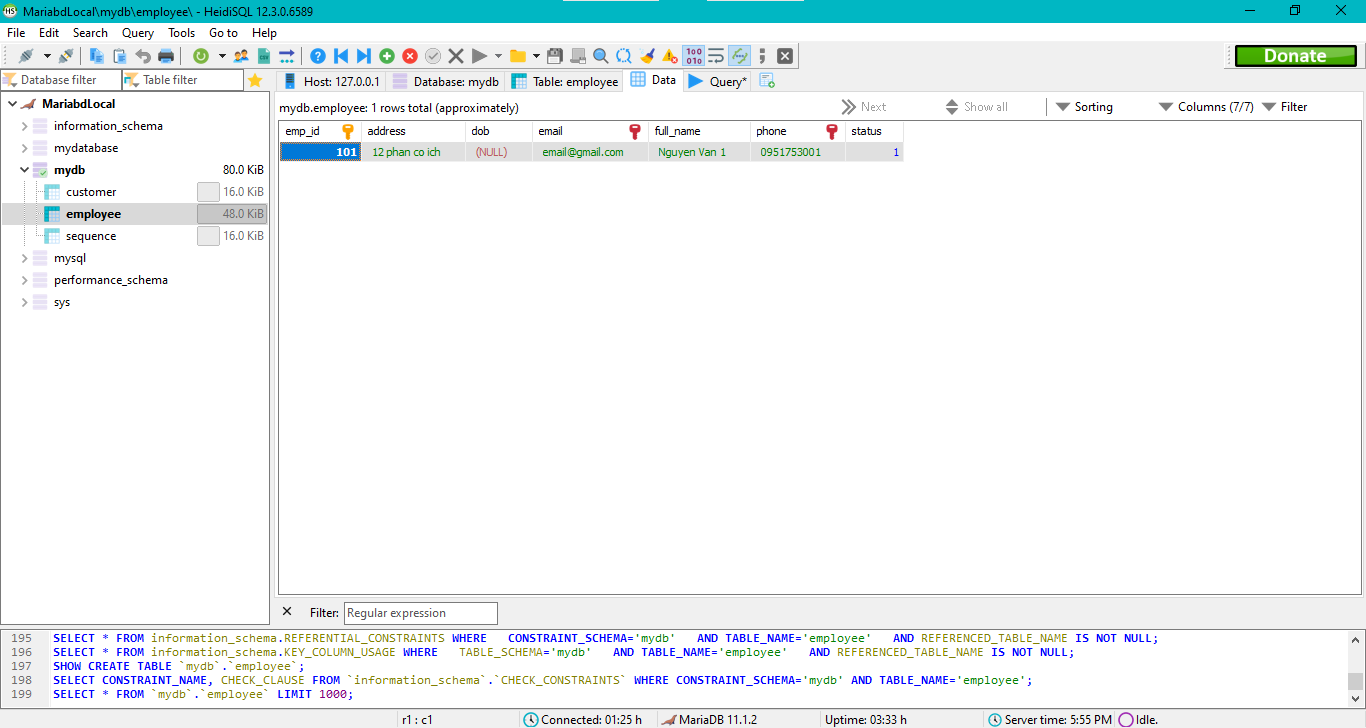
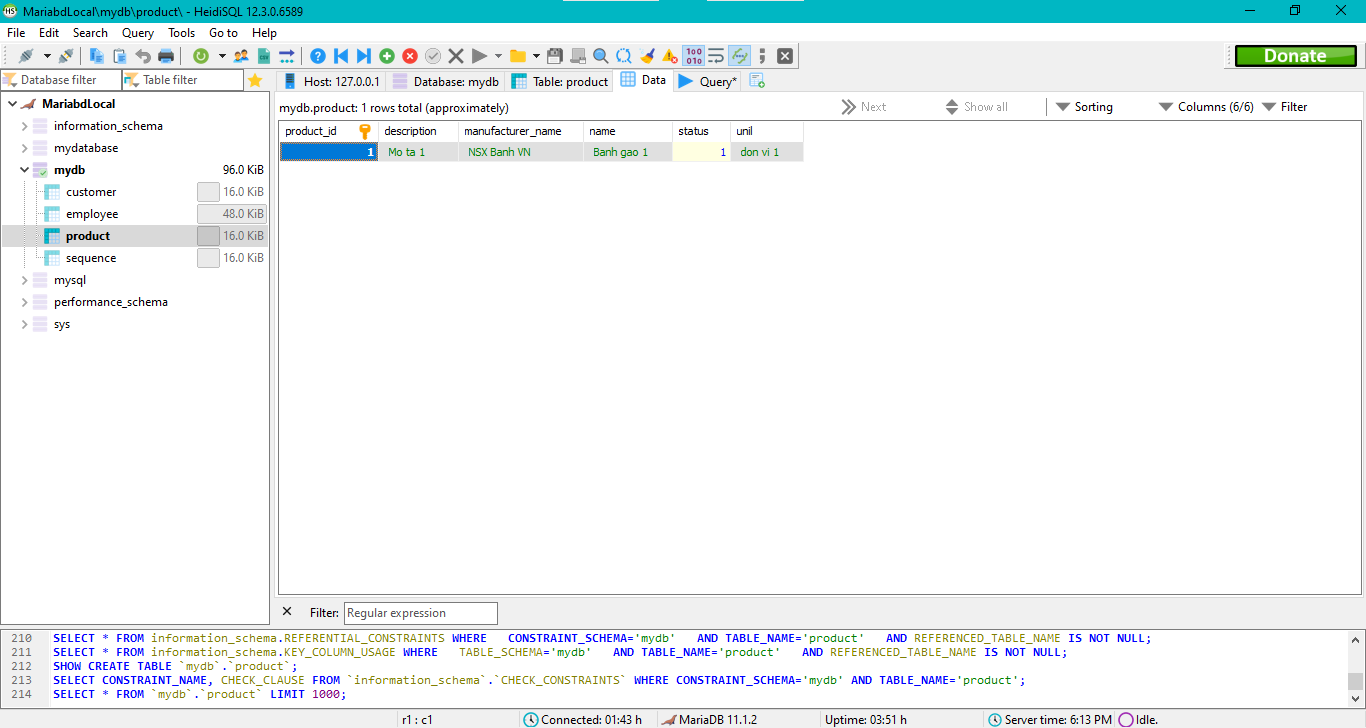
finish entity - product - data local

diff --git a/week2_RestAPI/lab1-week2-rest-jpa-mariadb/src/main/java/vn/edu/iuh/fit/models/Product.java b/week2_RestAPI/lab1-week2-rest-jpa-mariadb/src/main/java/vn/edu/iuh/fit/models/Product.java
@@ -1,7 +1,106 @@
 package vn.edu.iuh.fit.models;
 
+import jakarta.persistence.*;
+import vn.edu.iuh.fit.enums.ProductStatus;
+
 /**
- * product (product_id, name, description, unit, manufacturer_name, status)
+ * product (product_id, name
+ * , description : mieu ta
+ * , unit : don vi
+ * , manufacturer_name :nha san xuat
+ * , status)
  */
+@Entity
+@Table(name = "product")
 public class Product {
+    @Id
+    @GeneratedValue
+    @Column(name = "product_id")
+    private long id;
+    @Column(name = "name", nullable = false, length = 100)
+    private String name;
+    @Column(name = "description")
+    private String description;
+    @Column(name = "unil")
+    private String unit;
+    @Column(name = "manufacturer_name")
+    private String manufacturerName;
+    @Column(name = "status")
+    private ProductStatus status;
+//
+
+    public Product(long id, String name
+            , String description, String unit
+            , String manufacturerName
+            , ProductStatus status) {
+        this.id = id;
+        this.name = name;
+        this.description = description;
+        this.unit = unit;
+        this.manufacturerName = manufacturerName;
+        this.status = status;
+    }
+
+    @Override
+    public String toString() {
+        return "Product{" +
+                "id=" + id +
+                ", name='" + name + '\'' +
+                ", description='" + description + '\'' +
+                ", unit='" + unit + '\'' +
+                ", manufacturerName='" + manufacturerName + '\'' +
+                ", status=" + status +
+                '}';
+    }
+
+    public long getId() {
+        return id;
+    }
+
+    public void setId(long id) {
+        this.id = id;
+    }
+
+    public String getName() {
+        return name;
+    }
+
+    public void setName(String name) {
+        this.name = name;
+    }
+
+    public String getDescription() {
+        return description;
+    }
+
+    public void setDescription(String description) {
+        this.description = description;
+    }
+
+    public String getUnit() {
+        return unit;
+    }
+
+    public void setUnit(String unit) {
+        this.unit = unit;
+    }
+
+    public String getManufacturerName() {
+        return manufacturerName;
+    }
+
+    public void setManufacturerName(String manufacturerName) {
+        this.manufacturerName = manufacturerName;
+    }
+
+    public ProductStatus getStatus() {
+        return status;
+    }
+
+    public void setStatus(ProductStatus status) {
+        this.status = status;
+    }
+
+    public Product() {
+    }
 }

diff --git a/week2_RestAPI/lab1-week2-rest-jpa-mariadb/src/main/java/vn/edu/iuh/fit/MainTextEntity.java b/week2_RestAPI/lab1-week2-rest-jpa-mariadb/src/main/java/vn/edu/iuh/fit/MainTextEntity.java
@@ -4,7 +4,9 @@ import jakarta.persistence.EntityManager;
 import jakarta.persistence.EntityManagerFactory;
 import jakarta.persistence.Persistence;
 import vn.edu.iuh.fit.enums.EmployeeStatus;
+import vn.edu.iuh.fit.enums.ProductStatus;
 import vn.edu.iuh.fit.models.Employee;
+import vn.edu.iuh.fit.models.Product;
 
 public class MainTextEntity {
 
@@ -16,12 +18,19 @@ public class MainTextEntity {
         emp.setAddress("12 phan co ich");
         emp.setStatus(EmployeeStatus.IN_ACTIVE);
 
+        Product pro1 = new Product();
+        pro1.setName("Banh gao 1");
+        pro1.setUnit("don vi 1");
+        pro1.setDescription("Mo ta 1");
+        pro1.setManufacturerName("NSX Banh VN");
+        pro1.setStatus(ProductStatus.IN_ACTIVE);
+
 
         EntityManagerFactory entityManagerFactory = Persistence.createEntityManagerFactory("default");
         EntityManager entityManager = entityManagerFactory.createEntityManager();
 
         entityManager.getTransaction().begin();
-        entityManager.persist(emp);
+        entityManager.persist(pro1);
         entityManager.getTransaction().commit();
         entityManager.close();
         entityManagerFactory.close();

diff --git a/week2_RestAPI/lab1-week2-rest-jpa-mariadb/src/main/java/vn/edu/iuh/fit/enums/ProductStatus.java b/week2_RestAPI/lab1-week2-rest-jpa-mariadb/src/main/java/vn/edu/iuh/fit/enums/ProductStatus.java
@@ -1,0 +1,19 @@
+package vn.edu.iuh.fit.enums;
+
+public enum ProductStatus {
+    TERMINATE(-1),
+    IN_ACTIVE(0),
+    ACTIVE(1);
+    private int value;
+
+    ProductStatus() {
+    }
+
+    public int getValue() {
+        return value;
+    }
+
+    ProductStatus(int value) {
+        this.value = value;
+    }
+}
